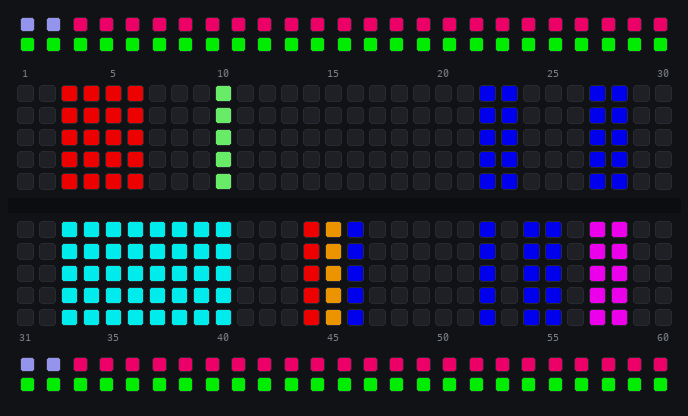
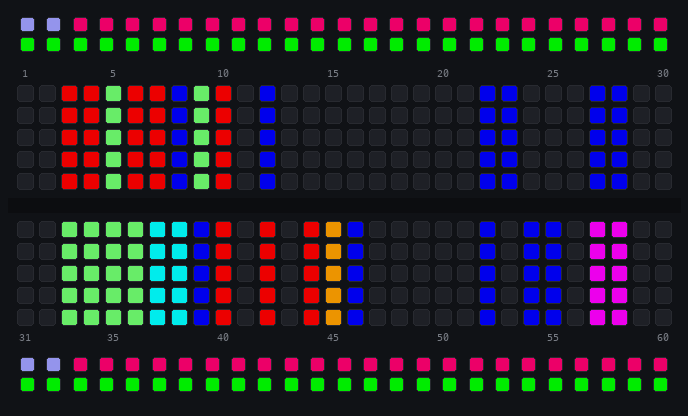
Docs: the Parts page catches up to 5.7.9.0
The page follows the real Parts menu now (Place Part / Test Part /
Remove Parts / Auto Scan, each with its own section), moved to 05.5 in
the nav. Auto Scan covers the new flow: the y/n confirm gestures, chips
you can actually add, and the identify pass (clamp fingerprint + truth
table vectors, the Which? picker, tapless placement when the vectors
prove orientation). DIP placement is two taps now.

Screenshots re-shot on a live 5.7.9.0 board: the add-chip and identify
prompts and the identifying screen are real framebuffer dumps from
tonight's scan runs, the verdict frame is tonight's board (chip across
both halves, cap, PNP, resistors). The stale CONNECT/click-legend OLED
shots are gone.

diff --git a/docs/05.5-parts.md b/docs/05.5-parts.md
@@ -1,0 +1,125 @@
+# Parts
+
+Your Jumperless can know what's plugged into it. Tell it a chip, module, or passive is on the board and it becomes a `part`: its pins get labeled, its power gets wired for you, tapping a pin tells you what it is, and if something's wired dangerously wrong the board warns you. If the part is a little OLED, the Jumperless will even drive it.
+
+You still wire your own circuit with the probe like always, parts just make the board smarter about what's on it.
+
+The `Parts` menu has four things in it:
+
+- [`Place Part`](#placing-a-part) - tell it what's plugged in and where
+- [`Test Part`](#test-part) - re-measure a placed part to check it's what it says it is
+- [`Remove Parts`](#remove-parts) - take parts off, leg by leg or whole
+- [`Auto Scan`](#auto-scan) - it figures out what's plugged in by itself
+
+## Placing a Part
+
+`Parts` > `Place Part` gives you a class picker on the breadboard LEDs:
+
+- `Logic` - 7400 / 4000 series ICs
+- `Analog` - 555s, op-amps, regulators
+- `Discrete` - resistors, caps, LEDs, diodes
+- `Transistors` - BJTs and MOSFETs
+- `Displays` - OLED panels and friends
+- `Modules` - BME280, MPU6050, and other breakout boards
+- `Remove parts` - [same thing as the menu entry](#remove-parts)
+
+Scroll with the clickwheel, click to pick a class, then pick your part the same way.
+
+### DIP chips: two taps
+
+A DIP straddles the center line, but it can still face two ways (pin 1 bottom-left, or spun 180° with pin 1 top-right), so it gets two taps: tap the hole **pin 1** is actually in, then the corner pin diagonally opposite it. That locks the orientation, and if your second tap isn't where a chip of that size could put it, it asks again (which also catches picking the wrong size chip before anything gets placed.) Typing the row numbers in the terminal works too.
+
+### Everything else: tap each signal
+
+Modules and SIP-header parts have **no standard pin order** - one vendor's OLED is `GND VCC SCL SDA`, the next one's is `VCC GND SCL SDA`. So instead of guessing, the Jumperless asks you to tap each signal by name: the breadboard shows `TAP VCC`, then `TAP GND`, then `TAP SCL`, and so on. Wherever you tap is where that signal is - the part can be plugged in any orientation, or even spread across fly wires (any rows in the same half of the board work).
+
+Every tap you land flashes that row green, and the rows you've already tapped stay lit so you can see your progress. Tapped the wrong row? It won't let you tap the same row twice for one part, and clicking the wheel backs you out to try again.
+
+Two-legged passives (resistors, LEDs, diodes) get both ends tapped - one hole on the top half, the matching hole on the bottom half. For polarized parts, whichever signal you tap is where that signal *is*, so the anode/cathode labels always match reality.
+
+### Power Pins
+
+When a part is placed, its power pins get routed to a `Rail` automatically: `VCC`-class pins connect to the rail on their half of the board, `GND`-class pins connect to ground. So you don't have to wire them up yourself.
+
+The rails still obey **you** - nothing is hot until you turn a rail on, and the voltage is whatever you set. (Also worth knowing: most I2C modules are happiest with rails at `3.3V` because the RP2350B can only pull the I2C lines up to 3.3V, if you add external pullups it should be fine at 5V)
+
+If you tap a power pin onto a row that's already connected to the *opposite* thing (say, VCC onto a grounded row), the Jumperless just silently refuses to make the connection - it won't short a rail to ground for you (but be aware that it can still short through a wire or diode placed on the breadboard. Don't worry, this probably won't kill your Jumperless and you'll see the current ants go crazy.)
+
+## Test Part
+
+`Parts` > `Test Part` shows a picker of your placed parts. Pick one and it re-measures it in place: discretes and transistors get the same electrical check the scan uses (so you can tell if it still reads like what you said it was), a display gets pinged to see if it's alive, and a generic `IC` record runs the full [identify](#auto-scan) and offers to rename itself to whatever the vectors say it actually is.
+
+## Remove Parts
+
+`Parts` > `Remove Parts` works two ways. Tap a leg of a placed part and just that leg is removed - its bridge, its net name, its entry in the part - and removing the last leg removes the part itself. Or scroll the wheel through your placed parts (each one highlights on the board with its card on the panel) and a click removes the whole highlighted part. The scroll's last stop is `All`, which clears every part (it asks first - confirm with the probe's `Connect` button). Clearing the whole board (`x`) clears its parts too. Parts are saved with your slot, so they come back after a reboot.
+
+## Auto Scan
+
+Or skip all that and make it figure out what's on the board by itself. `Parts` > `Auto Scan` lifts all your wiring out of the way (it goes back exactly as it was when the scan exits), pokes every row, and measures anything that conducts. Any press stops it - either probe button, the wheel, or any key in the terminal.
+
+You can watch it work, the row it's testing sweeps down the board in rainbow and anything that conducts stays lit green. The OLED says which phase it's in. A pretty full board takes about 30 seconds.
+
+![The board mid-scan, everything that conducts is lit green](assets/autoscan-hits.png)
+
+![OLED while scanning](assets/autoscan-oled-scanning.png)
+
+Stuff it can find:
+
+- `RESISTOR 4.7k`, `LED 1.85V`, `DIODE 0.65V`, `CAPACITOR` - two-lead parts get typed and measured, with the anode lit red and the cathode blue
+- `BJT_PNP 0.59V` (or NPN, or FETs) - lit emitter red, base amber, collector blue
+- `a chip?` - it reads the chip's clamp diodes to find which rows are GND and VCC, then probes the rest of the pins against them (`row 35 answers - a pin`)
+- `I2C 0x3C module` - it powers the cluster briefly and asks if anything answers on the bus (this is how an SSD1306 module shows up)
+- `a 7-seg display?` - all the segments light from one common pin
+- parts you already placed just get named (`7SEG52 (placed)`), and a lone noise row gets checked and ignored
+
+![The verdict - a chip across both halves, a capacitor, a PNP in E/B/C colors, and resistors](assets/autoscan-verdict.png)
+
+When it's done it asks about each finding, one at a time. Same gestures as everywhere else, `click` or `Connect` = yes, `hold` or `Remove` = no (or `y`/`n` in the terminal, anything else bails out of the whole confirm pass). What the prompts do:
+
+![add a found chip](assets/autoscan-oled-confirm.png)
+
+- `add RESISTOR rows 12-13?` - places it as a part, same as if you did it through `Place Part`
+- `add dip16 chip rows 33-40?` - places a chip (it already paired the span with its mirror across the middle, that's the `far side 3-10` on the second line)
+- `identify dip16 chip rows 33-40? powers it briefly` - offered after you add a chip, if the scan found its power pins. It fingerprints each pin's clamp diodes, then actually powers the chip and runs the truth tables of everything in the part database that could fit. Whatever passes shows up in a `Which?` picker - pick one and it places with real pin names and no tap, the vectors already proved which way it's facing. Or pick `Generic IC` and it places as `IC33` with unnamed pins (`Test Part` runs the same identify on it later and offers to rename it.)
+- `wire 8-seg display (common 58) to GPIOs?` - routes each segment to its own GPIO and the common to the rail it wants, names the nets `7SEG52_S1` through `S8`, then blinks each segment in order so you can see which GPIO got which. After that you can drive it from MicroPython without touching a wire.
+
+The identify run on my 7447 looks like this:
+
+![identifying](assets/autoscan-oled-identify.png)
+
+```jython
+identify? dip16 chip rows 33-40  powers it briefly  (y/n)
+  vectors: trying 7447 (rotated 180)
+  vectors: trying 74595 (rotated 180)
+identify fp=GGGGGGG-GGGBGGG- tried=2 pass=7447(r)
+```
+
+New parts' labels light up along the board edge for a few seconds after the scan:
+
+![labels after the scan](assets/autoscan-bloom.gif)
+
+If it refuses to scan: `board reads powered` means something is feeding the matrix and charged rows look like parts, unpower whatever it is and rescan. `no clean ADC lane` means every free ADC is being driven and there's nothing left to measure with.
+
+## Living with placed parts
+
+**Labels.** Right after you place a part, its pins light up along the board edge in their class colors for a few seconds, then go dark. An idle board stays clean - labels come back when they're relevant (you tap the part, its net gets highlighted, or a warning is active).
+
+**Tap a pin to ask about it.** With the probe switch on `Select`, tap any row a part lives on and the OLED shows the part name, the pin's label, and its class - `NE555 pin 3 OUT`, that kind of thing.
+
+**Highlighting.** Highlight a net that lands on a part pin and the OLED says `SSD1306 SDA` instead of `Net 12`. Highlight a GPIO that's genuinely configured as I2C (checked against the actual RP2350 pin function register, not guessed) and it says `GPIO 7 SDA`.
+
+**Warnings.** If a part's power pin ends up on a grounded net, or its ground pin on a hot rail, the part's pins light up in warning colors and the OLED tells you why (`VCC_TO_GND!`). It won't undo your wiring or block anything, it just makes sure you know.
+
+## Breadboard Displays
+
+Place a small I2C OLED (the 0.91" 128x32 SSD1306 is the well-tested one) through `Parts` > `Displays`, tapping each of its pins as prompted. Then:
+
+1. The Jumperless routes the display's `SDA`/`SCL` to two of its own GPIOs through the crossbar - you never wire data lines.
+2. Power rides the rails you already wired during placement - turn a rail on (3.3V is the happy voltage).
+3. The moment the panel powers up, the board finds it and the boot animation starts playing on it, ambient - it keeps running while you use menus, probe around, and measure things.
+
+The serial monitor narrates the lifecycle: `DISPLAY routed`, then `DISPLAY alive` when the panel answers. If you steal its GPIOs from a MicroPython script the display pauses (`DISPLAY paused`) and resumes when you release them.
+
+## Terminal twins
+
+Everything above works over serial too: the part pickers echo what they're showing, any "tap a row" prompt accepts a typed row number + enter, and placements print machine-readable lines (`PARTDB place ok=NE555 row=42`, `PARTPICK sig=SDA row=8`, `PARTPIN`/`PARTWARN` for inspects and warnings) so scripts and tools can follow along.
